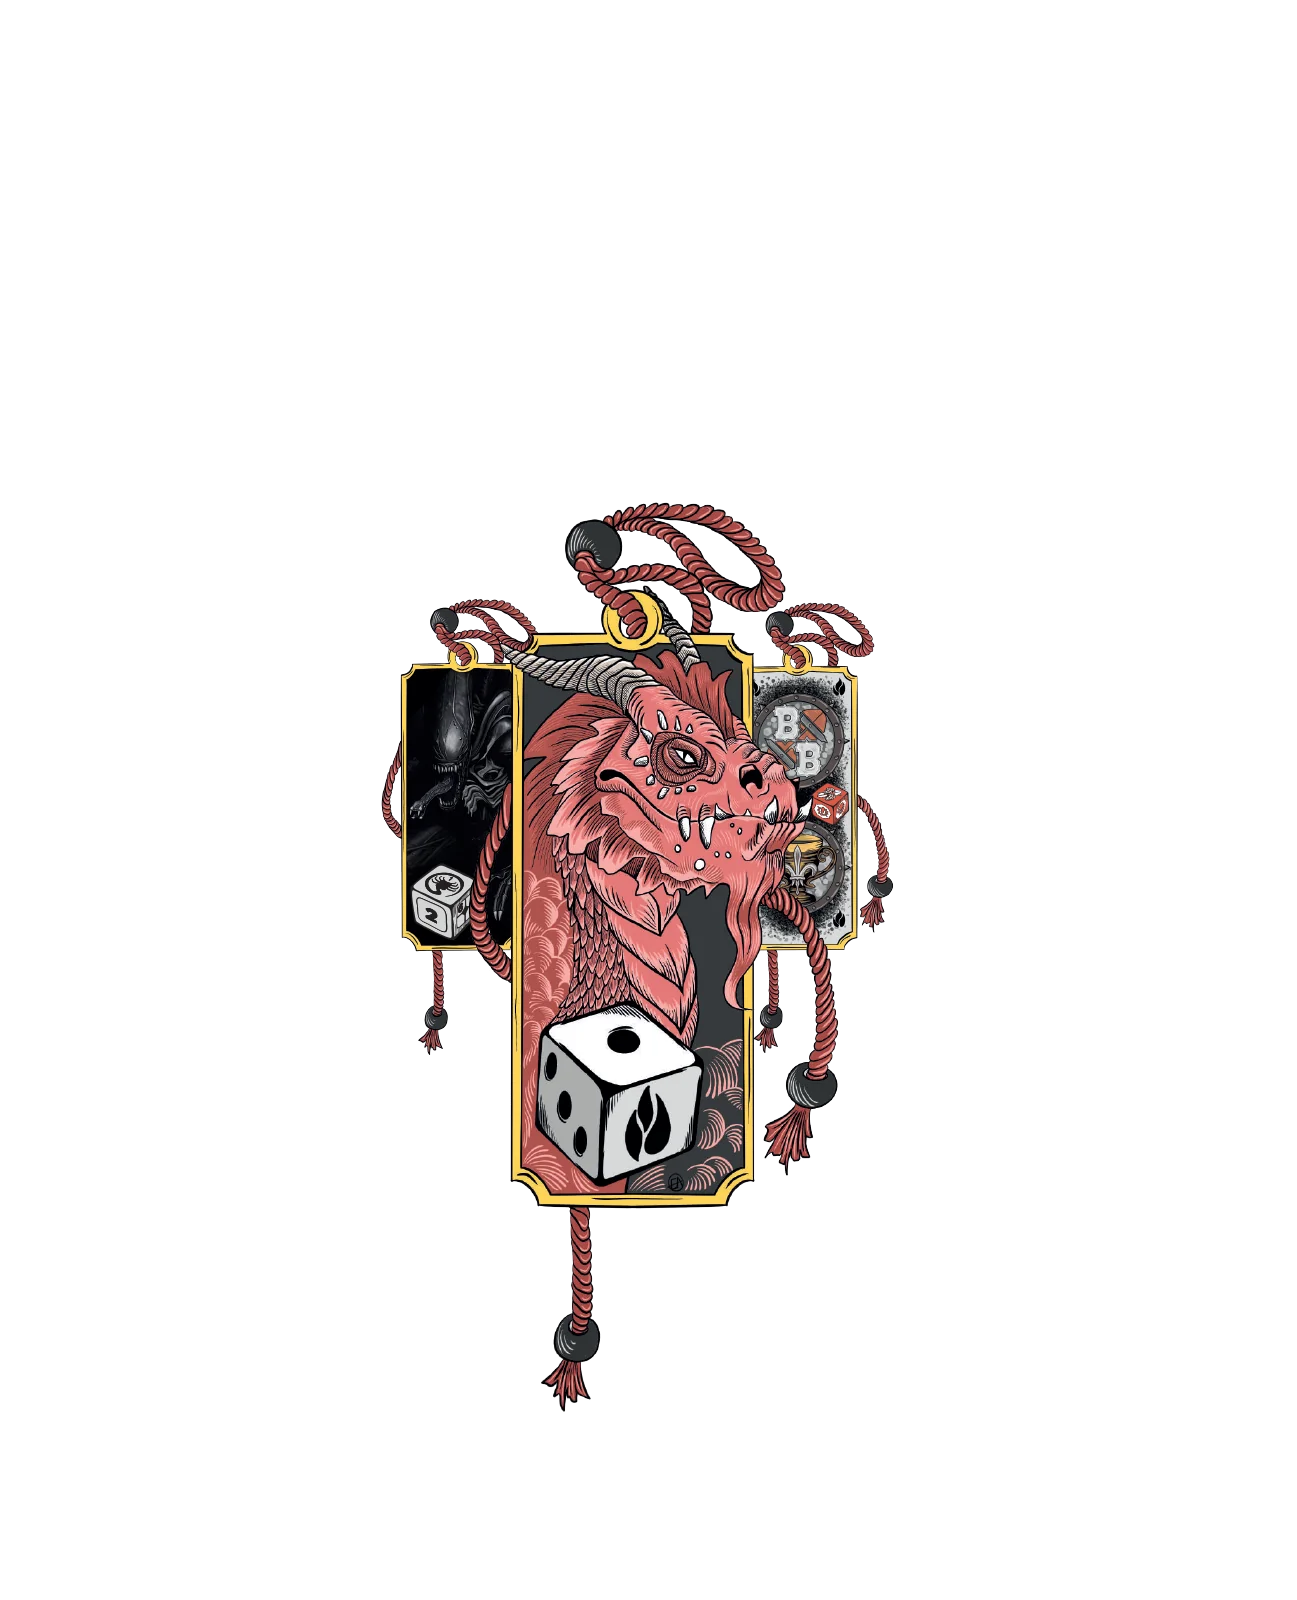
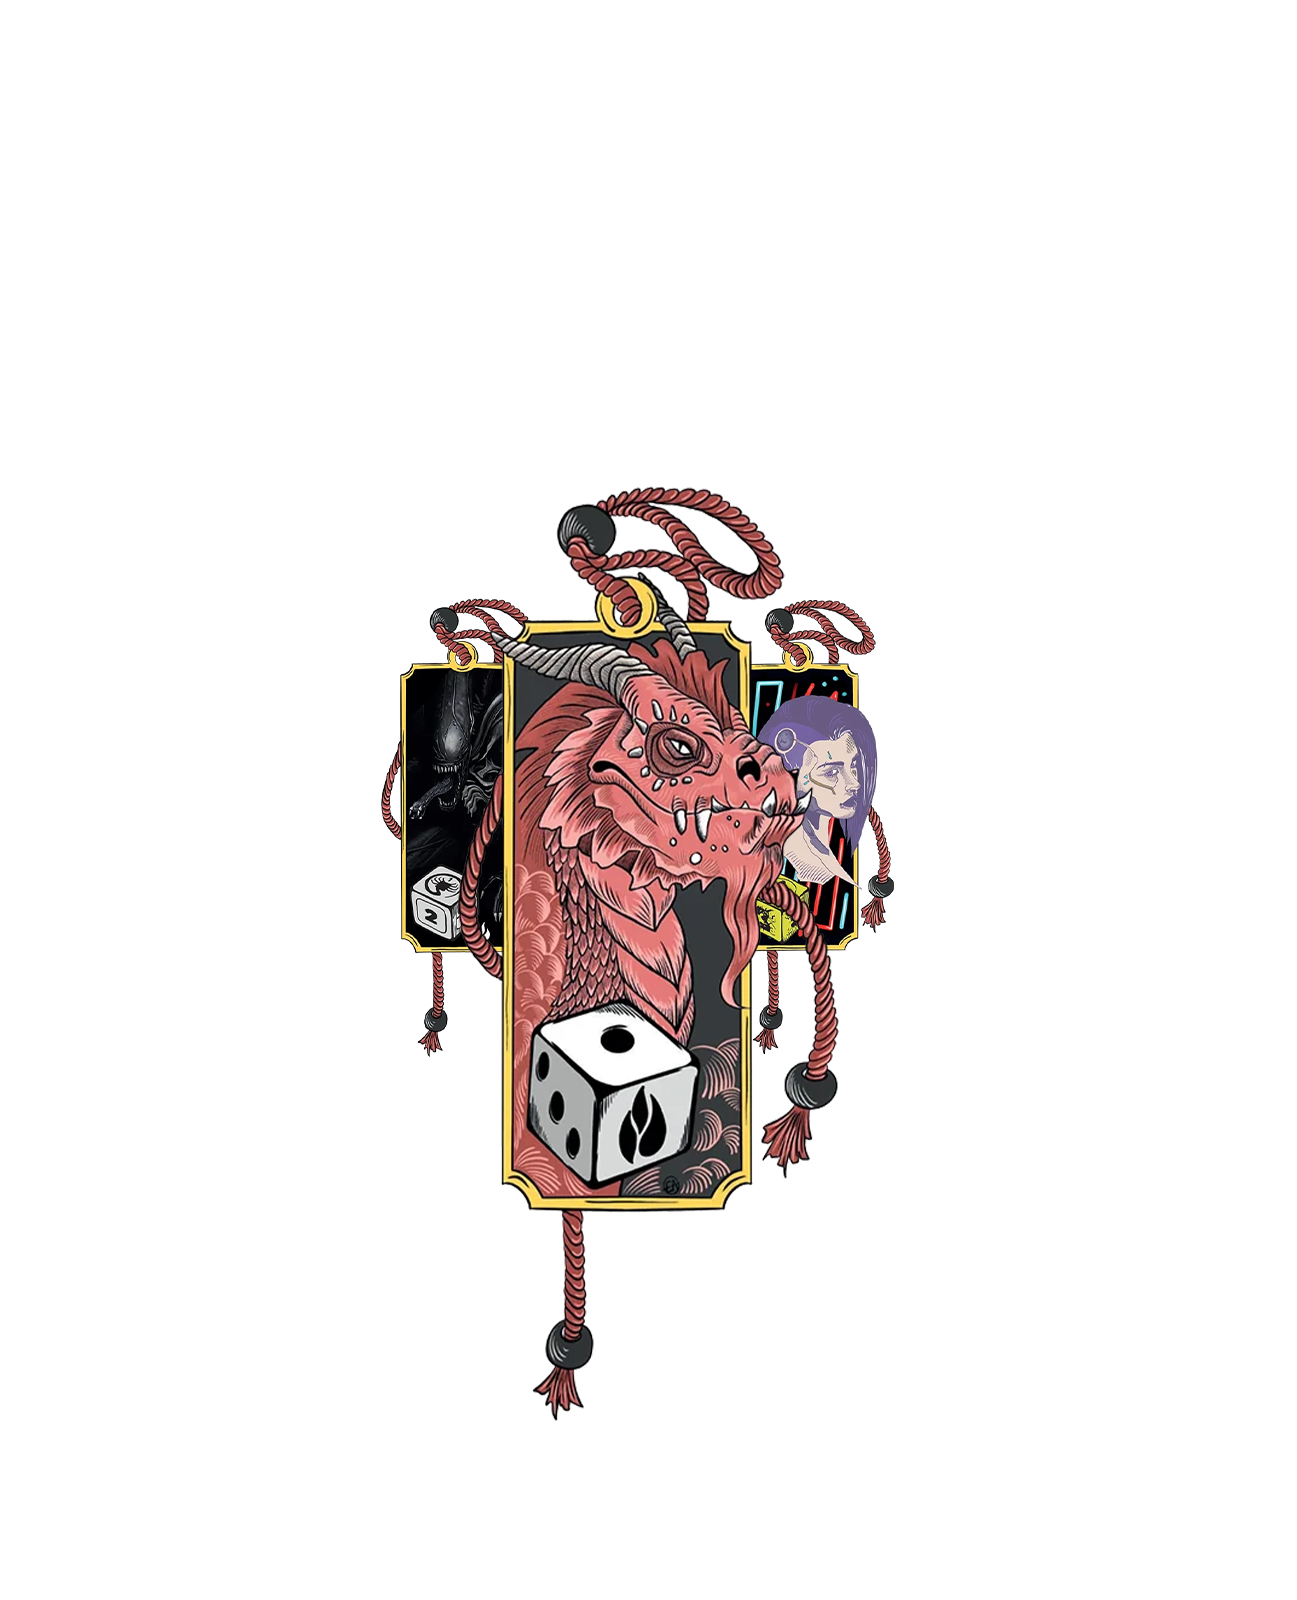
Retire Bordeaux du t-shirt Pingu et du sweat Rousseau, ajoute le design générique
- Retire le coloris Bordeaux des t-shirts collection Pingu et du sweat
  Rousseau : incompatible visuellement avec les cordelettes des designs.
  Conservé sur la collection Pipito.
- Le sweat Rousseau bascule sur Ciel comme coloris par défaut suite à
  ce retrait.
- Ajoute un design "La Forge des Joueurs" aux sweats Rousseau et
  Montaigne, avec bascule automatique de l'encre (noire/blanche)
  selon le contraste du coloris choisi.
- Met à jour le visuel du design Trio JDR/Dragon (t-shirt et sweat).

Changed region(s): [[0.2776, 0.2812, 0.7093, 0.875]]

diff --git a/importation-js/sweats.js b/importation-js/sweats.js
@@ -42,7 +42,15 @@ function lfdjInitSweat(opts) {
     logoImg.classList.toggle("lfdj-hidden", isDos);
 
     if (design && isDos) {
-      designImg.src = designPath + design.dataset.file;
+      if (design.dataset.code === "GEN") {
+        // Contrairement au logo FACE, ces deux fichiers nomment la couleur
+        // d'encre réelle (pas le fond ciblé) : encre noire sur les couleurs
+        // claires, encre blanche sur les couleurs foncées.
+        const isLight = color ? opts.lightColors[color.dataset.color] === true : false;
+        designImg.src = designPath + (isLight ? "GENERIQUE-NOIR.webp" : "GENERIQUE-BLANC.webp");
+      } else {
+        designImg.src = designPath + design.dataset.file;
+      }
       designImg.alt = "Design " + (design.getAttribute("aria-label") || "").replace("Design ", "");
     }
 

diff --git a/boutique.php b/boutique.php
@@ -215,7 +215,6 @@ function create_color_swatches(array $swatches)
         <?php
         create_color_swatches(array(
           array("data-color" => "BLANC", "data-code" => "BLA", "color" => "#f4f3f0", "label" => "Blanc"),
-          array("data-color" => "BORDEAUX", "data-code" => "BOR", "color" => "#661f24", "label" => "Bordeaux"),
           array("data-color" => "CIEL", "data-code" => "CIE", "color" => "#b5d9f3", "label" => "Ciel"),
           array("data-color" => "MARINE", "data-code" => "MAR", "color" => "#1d253a", "label" => "Marine"),
           array("data-color" => "NOIR", "data-code" => "NOI", "color" => "#333332", "label" => "Noir"),
@@ -604,13 +603,13 @@ function create_color_swatches(array $swatches)
       <button type="button" class="lfdj-size-pill active" data-view="DOS">Dos</button>
     </div>
     <div class="lfdj-sweat-preview-frame">
-      <img id="lfdj-sweat-rousseau-base" src="./images/Textile/ROUSSEAU/SWEAT-DOS-BORDEAUX.webp" alt="Sweat Rousseau, coloris bordeaux" width="2816" height="3457">
+      <img id="lfdj-sweat-rousseau-base" src="./images/Textile/ROUSSEAU/SWEAT-DOS-CIEL.webp" alt="Sweat Rousseau, coloris ciel" width="2816" height="3457">
       <img id="lfdj-sweat-rousseau-design" src="./images/Textile/COLLECTION-PINGU/SWEAT/DESIGN-PINGU-ALIEN.webp" alt="Design Alien" width="2816" height="3457">
       <img id="lfdj-sweat-rousseau-logo" src="./images/Textile/COLLECTION-PINGU/SWEAT/LOGO-PINGU-FACE-NOIR.webp" alt="Logo, face" width="1297" height="1600" class="lfdj-hidden">
       <button type="button" class="lfdj-zoom-btn" aria-label="Agrandir l'image">+</button>
     </div>
     <p class="lfdj-ref-inline">
-      Réf.&nbsp;: <code id="lfdj-sweat-rousseau-ref-code">SWE-ROUS-ALI-BOR-M-Q1</code>
+      Réf.&nbsp;: <code id="lfdj-sweat-rousseau-ref-code">SWE-ROUS-ALI-CIE-M-Q1</code>
       <button type="button" id="lfdj-sweat-rousseau-ref-copy" class="lfdj-ref-copy-btn-small" aria-label="Copier la référence"><i class="fa-regular fa-copy" aria-hidden="true"></i></button>
     </p>
   </div>
@@ -630,6 +629,7 @@ function create_color_swatches(array $swatches)
           array("data-file" => "DESIGN-PINGU-TRIO-JDF-SPACEMARINE.webp", "label" => "Design Trio, Space Marine en avant", "data-code" => "TRISM"),
           array("data-file" => "DESIGN-PINGU-TRIO-JDR-DRAGON.webp", "label" => "Design Trio, Dragon en avant", "data-code" => "TRIDRA"),
           array("data-file" => "DESIGN-PINGU-QUINTET-DRAGON.webp", "label" => "Design Quintet, Dragon en avant", "data-code" => "QUIDRA"),
+          array("data-file" => "GENERIQUE-NOIR.webp", "label" => "Design La Forge des Joueurs", "data-code" => "GEN"),
         ));
         ?>
       </div>
@@ -640,7 +640,6 @@ function create_color_swatches(array $swatches)
       <div class="lfdj-color-row" role="group" aria-label="Choix du coloris">
         <?php
         create_color_swatches(array(
-          array("data-color" => "BORDEAUX", "data-code" => "BOR", "color" => "#692329", "label" => "Bordeaux"),
           array("data-color" => "CIEL", "data-code" => "CIE", "color" => "#b9d5f0", "label" => "Ciel"),
           array("data-color" => "MARINE", "data-code" => "MAR", "color" => "#242b3f", "label" => "Marine"),
           array("data-color" => "ROUGE", "data-code" => "RGE", "color" => "#e11421", "label" => "Rouge"),
@@ -738,6 +737,7 @@ function create_color_swatches(array $swatches)
           array("data-file" => "DESIGN-PINGU-TRIO-JDF-SPACEMARINE.webp", "label" => "Design Trio, Space Marine en avant", "data-code" => "TRISM"),
           array("data-file" => "DESIGN-PINGU-TRIO-JDR-DRAGON.webp", "label" => "Design Trio, Dragon en avant", "data-code" => "TRIDRA"),
           array("data-file" => "DESIGN-PINGU-QUINTET-DRAGON.webp", "label" => "Design Quintet, Dragon en avant", "data-code" => "QUIDRA"),
+          array("data-file" => "GENERIQUE-NOIR.webp", "label" => "Design La Forge des Joueurs", "data-code" => "GEN"),
         ));
         ?>
       </div>
